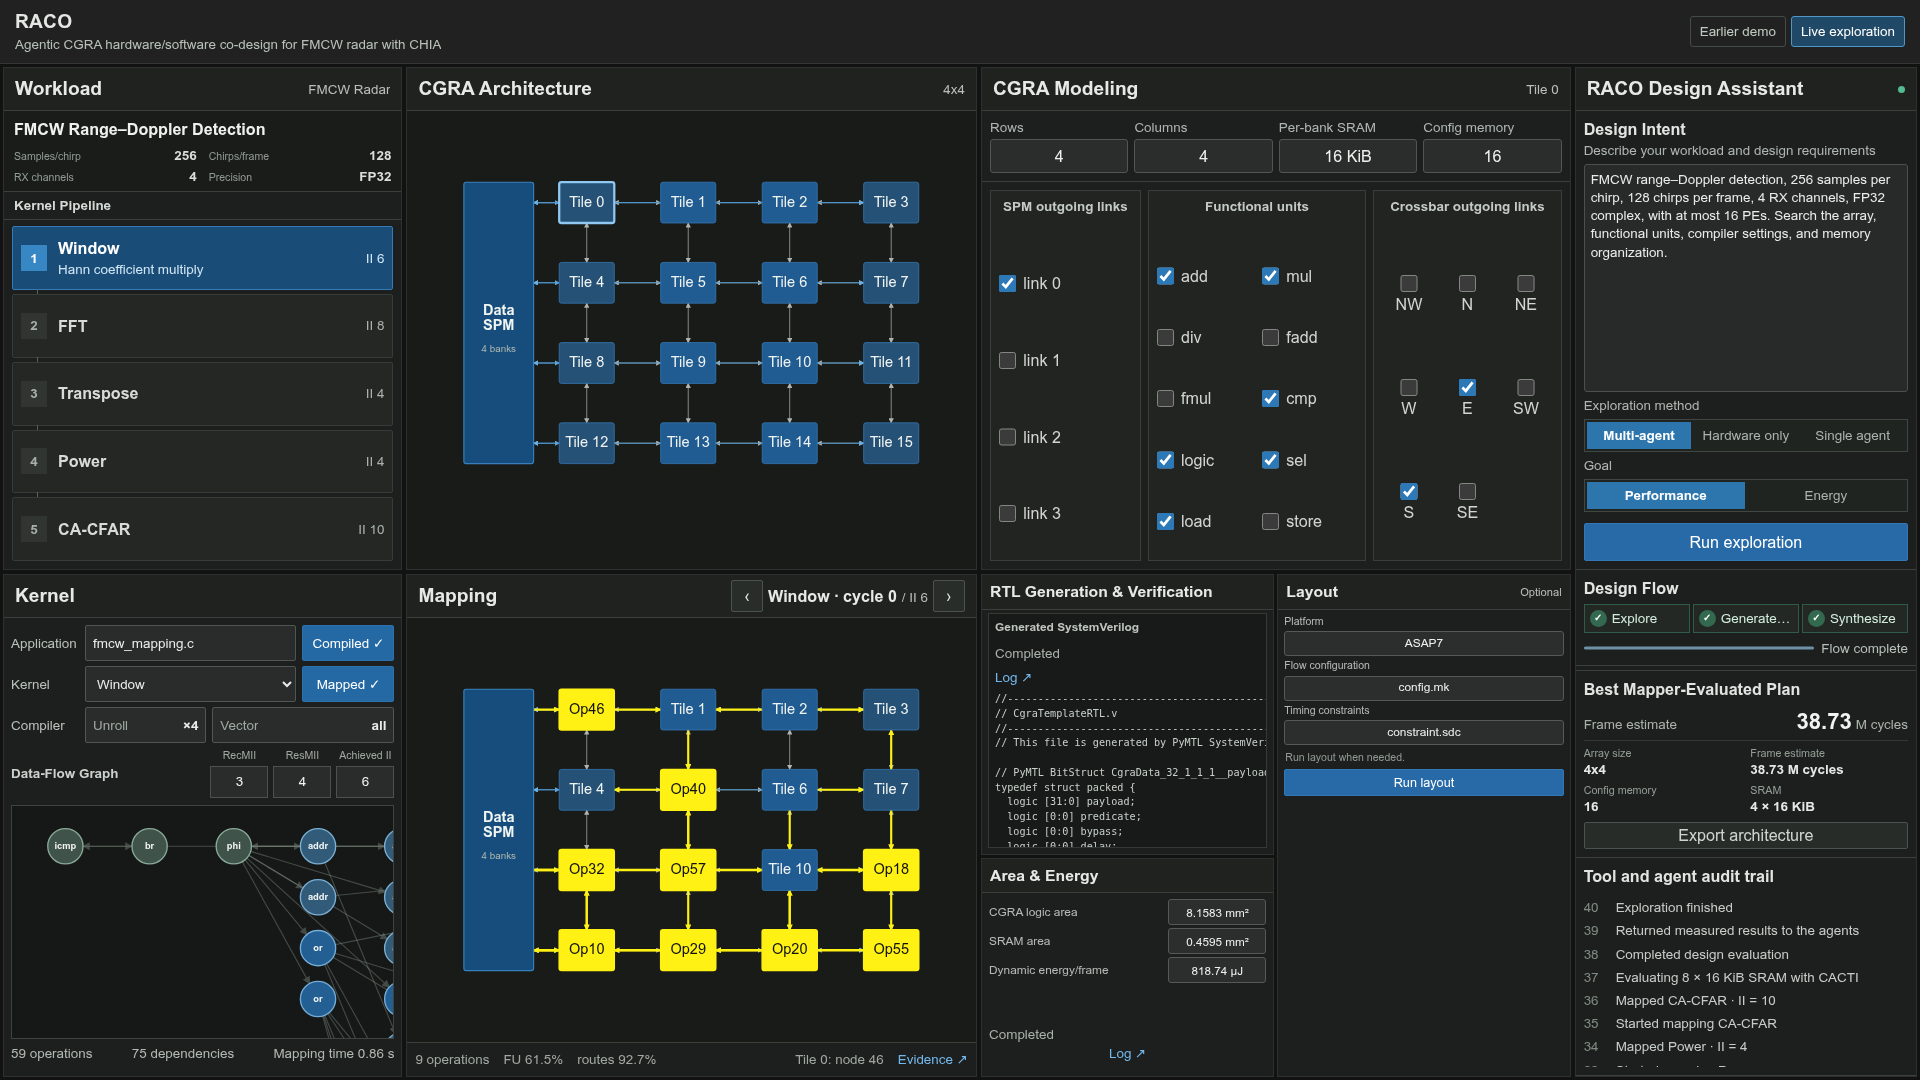
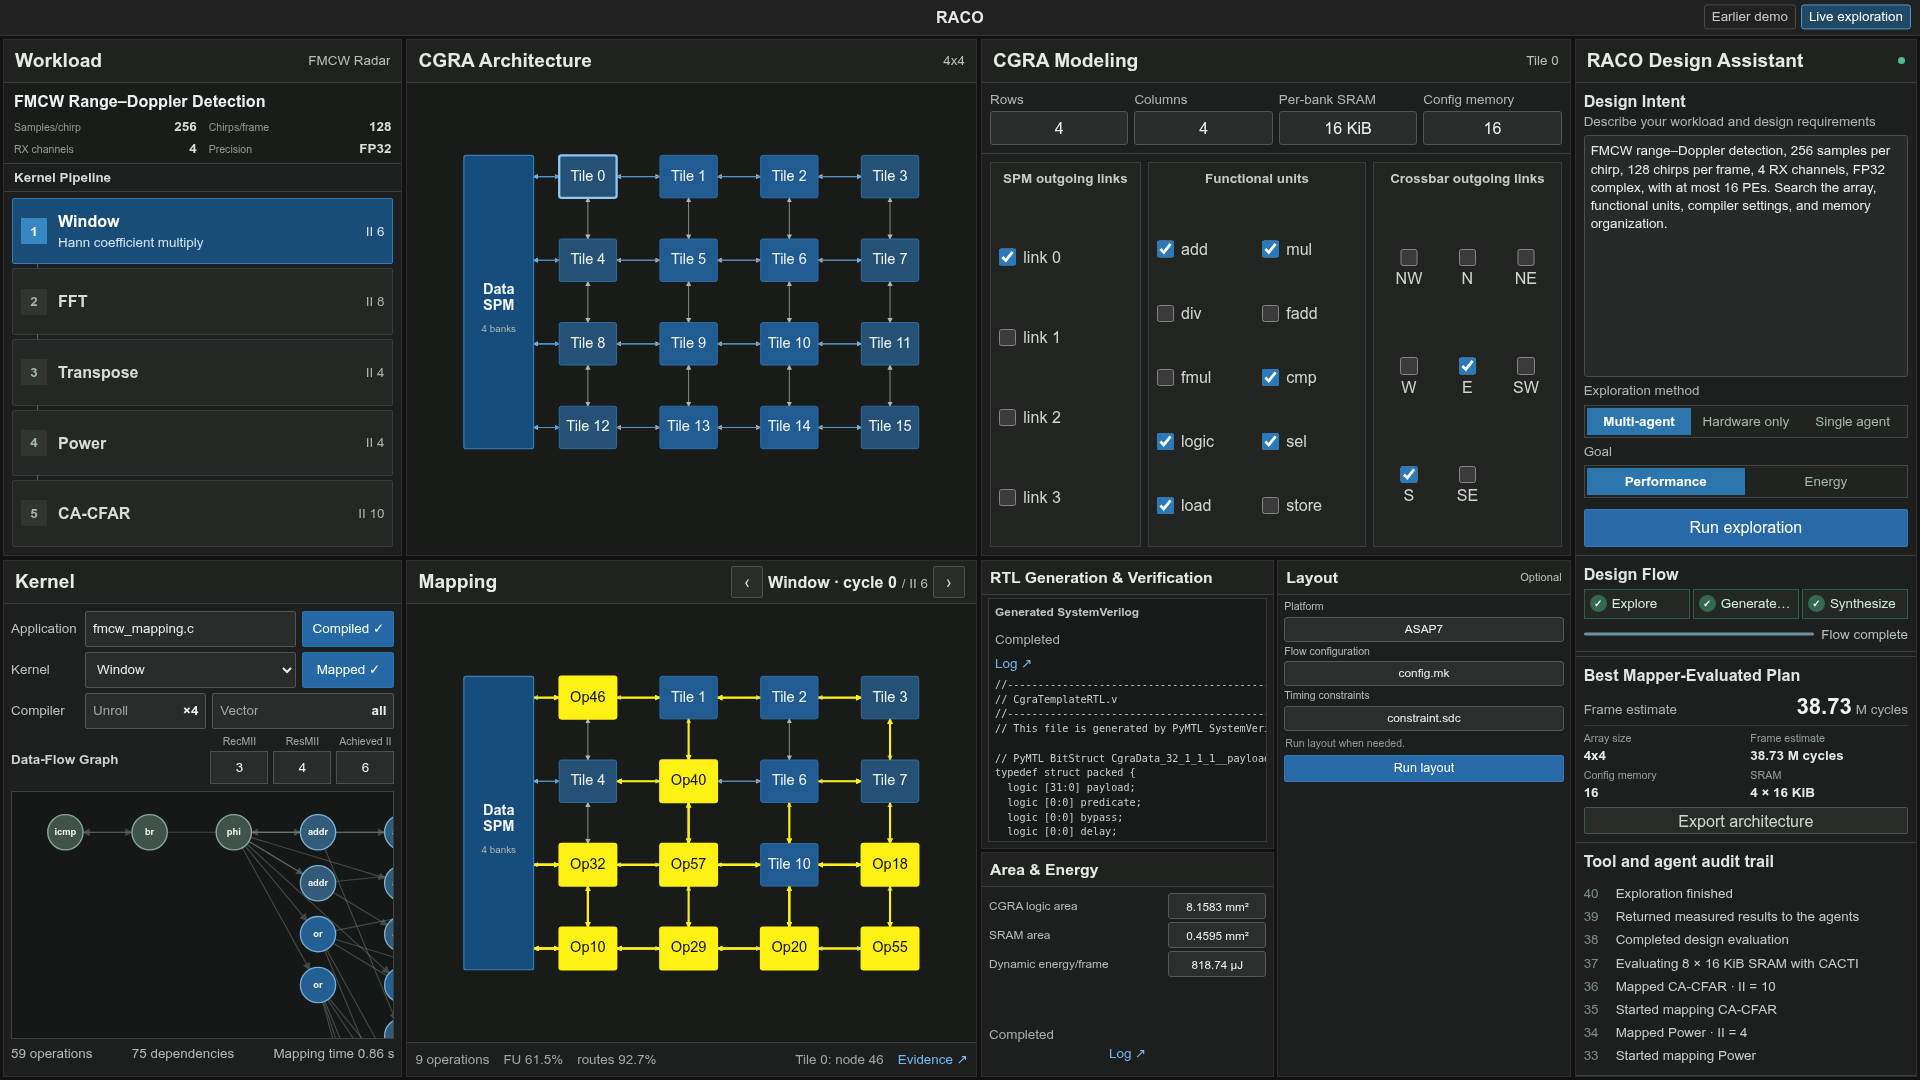
Restore centered compact demo title bar

diff --git a/gui/frontend/src/MacoApp.tsx b/gui/frontend/src/MacoApp.tsx
@@ -164,7 +164,7 @@ function App(){
  const setPrompt=(value:string)=>{edited.current=true;setPromptState(value);};
  async function run(){if(running||interpreting||!prompt.trim())return;setInterpreting(true);setInputError('');try{const result=await api<Interpretation>('/workload/interpret',{method:'POST',headers:{'Content-Type':'application/json'},body:JSON.stringify({description:prompt})});if(result.unsupported.length){setInputError(result.unsupported.join(' '));return;}const workload={...result.workload,objective};await jobs.startSpec({workload,interpretation:{...result,workload},rounds:1,method});}catch(e){setInputError(String(e));}finally{setInterpreting(false);}}
  function exportArch(){if(!entry)return;const content=JSON.stringify({design:entry.design,architecture:entry.architecture,memory:entry.memory},null,2),url=URL.createObjectURL(new Blob([content],{type:'application/json'})),a=document.createElement('a');a.href=url;a.download='maco-selected-architecture.json';a.click();URL.revokeObjectURL(url);}
- return <main className="cgra-web"><header className="app-bar"><div><strong>RACO</strong><span>Agentic CGRA hardware/software co-design for FMCW radar with CHIA</span></div><nav aria-label="Experiment mode"><a className={demo?'active':''} href="/?demo=1">Earlier demo</a><a className={!demo?'active':''} href="/?mode=live">Live exploration</a></nav></header>
+ return <main className="cgra-web"><header className="app-bar"><strong>RACO</strong><nav aria-label="Experiment mode"><a className={demo?'active':''} href="/?demo=1">Earlier demo</a><a className={!demo?'active':''} href="/?mode=live">Live exploration</a></nav></header>
   {!entry||!data?<LoadingWorkbench error={error}/>:<div className="flow-workspace">
    <div className="left-stack"><PipelinePanel entry={entry} workload={data.workload} stage={stage} setStage={setStage}/><KernelPanel entry={entry} stage={stage} setStage={setStage}/></div>
    <ArchitectureWorkbench entry={entry} selected={selectedPE} setSelected={setSelectedPE}/>

diff --git a/gui/frontend/src/radar.css b/gui/frontend/src/radar.css
@@ -128,14 +128,10 @@ body{margin:0;overflow:hidden;background:#171817;color:#e7e9e7}
 .report-panel>.panel-action{margin-top:auto}
 @keyframes loading-spin{to{transform:rotate(360deg)}}
 
-/* The paper archive is the default entry point; experimental hardware tools live in Live exploration. */
-.cgra-web{--title-h:clamp(51px,3.5vw,64px)}
-.app-bar{justify-content:space-between;gap:12px;padding:0 15px}
-.app-bar>div{display:flex;flex-direction:column;gap:2px;min-width:0}
-.app-bar strong{font-size:var(--fs-md)}
-.app-bar span{overflow:hidden;color:#b6c0b8;font-size:var(--fs-xs);text-overflow:ellipsis;white-space:nowrap}
-.app-bar nav{display:flex;flex-shrink:0;gap:5px}
-.app-bar nav a{padding:6px 9px;border:1px solid #434d46;border-radius:3px;color:#bfcbc2;font-size:var(--fs-xs);white-space:nowrap}
+/* Keep the original compact, centered title bar while retaining the mode switch. */
+.app-bar{position:relative}
+.app-bar nav{position:absolute;right:9px;top:50%;transform:translateY(-50%);display:flex;gap:5px}
+.app-bar nav a{padding:3px 7px;border:1px solid #434d46;border-radius:3px;color:#bfcbc2;font-size:var(--fs-xs);white-space:nowrap}
 .app-bar nav a.active{border-color:#4e97c7;background:#204968;color:#fff}
 .maco-panel.archived{grid-template-rows:clamp(35px,2.25vw,45px) auto auto auto minmax(0,1fr)}
 .archive-intent{padding:10px!important;background:#1b2525}
@@ -150,4 +146,4 @@ body{margin:0;overflow:hidden;background:#171817;color:#e7e9e7}
 .archive-evidence p{margin:0;color:#bac9be;font-size:var(--fs-xs);line-height:1.45}
 .archive-evidence a{display:block;font-size:var(--fs-xs)}
 .evidence-badge{align-self:flex-start;padding:5px 6px;border:1px solid #447460;background:#1d3c31;color:#cbeddc;font-size:var(--fs-xs);font-weight:650;letter-spacing:.03em}
-@media(max-width:900px){.app-bar{padding:0 9px}.app-bar span{max-width:48vw}.archive-evidence .flow-panel{min-height:170px}}
+@media(max-width:900px){.app-bar nav a{padding:2px 5px}.archive-evidence .flow-panel{min-height:170px}}
